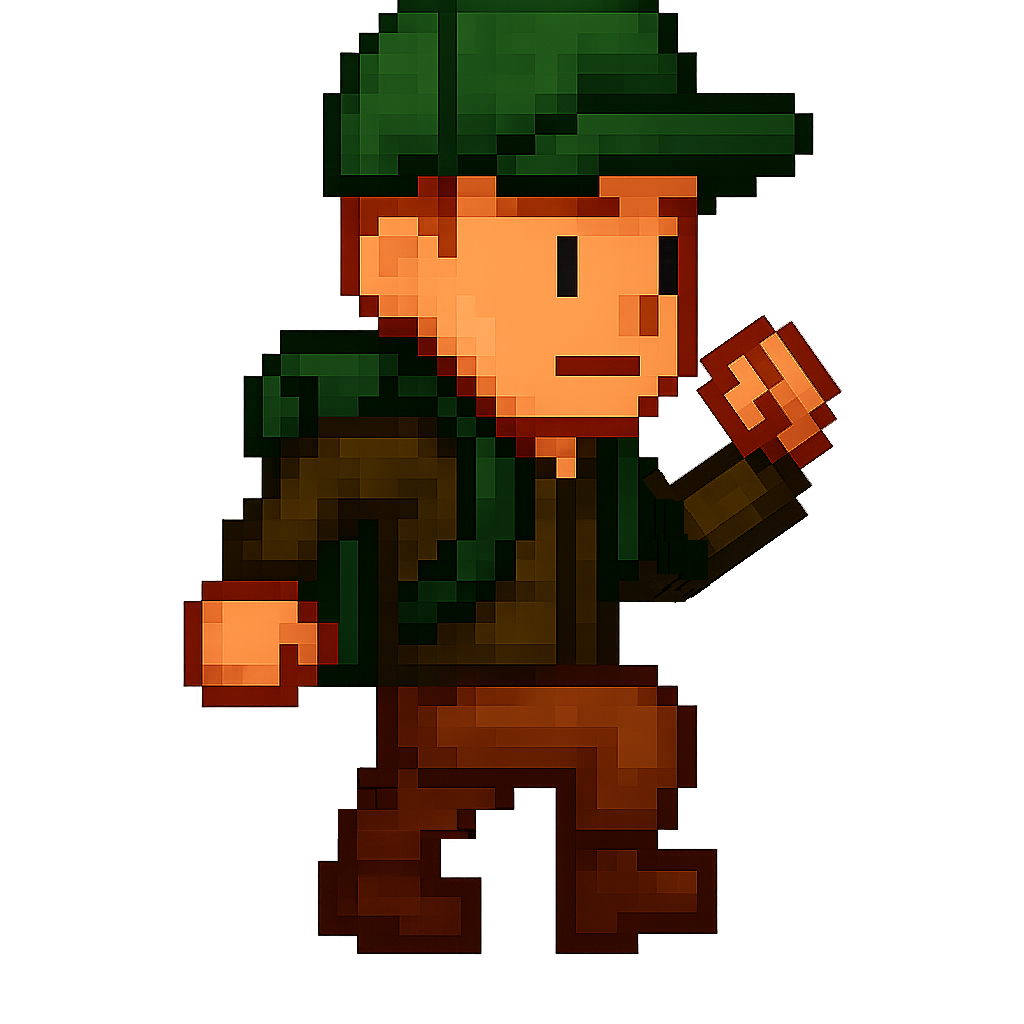
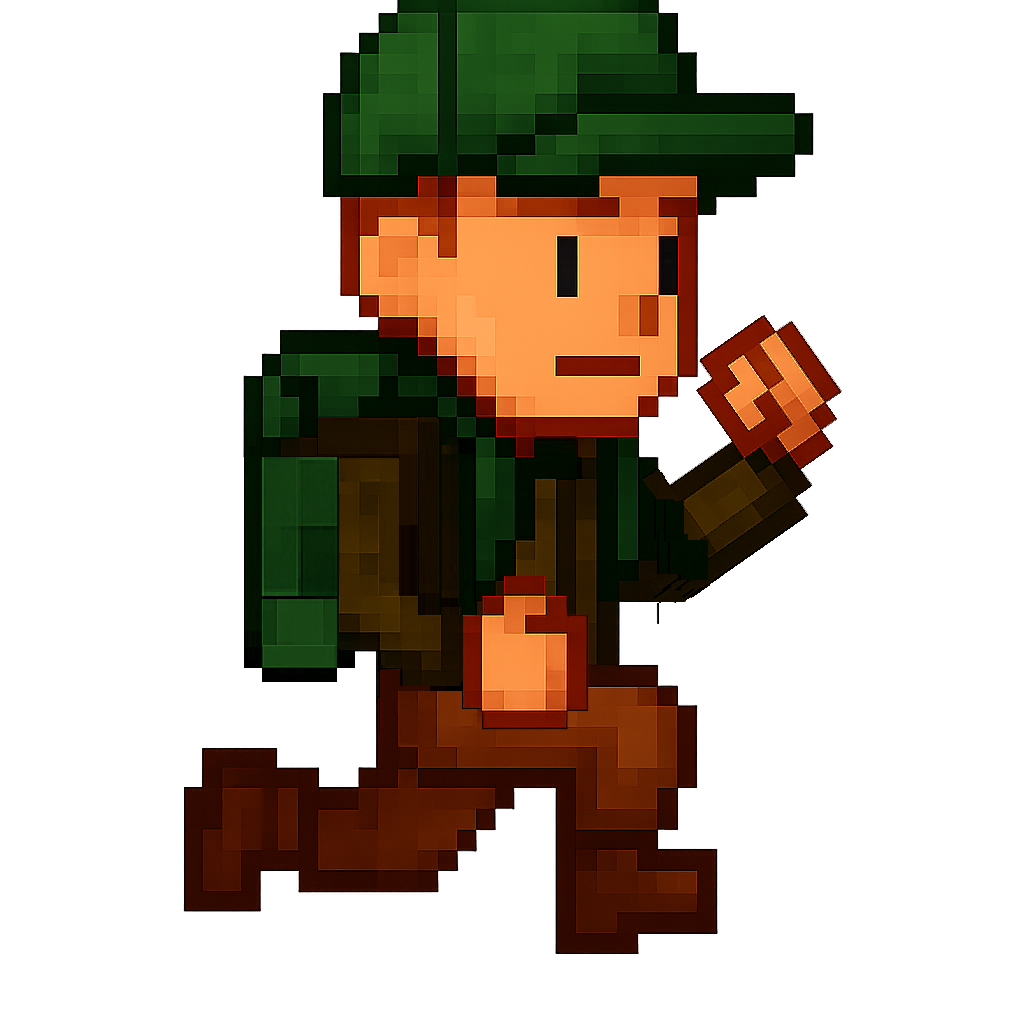
mustard

Changed region(s): [[0.1562, 0.4062, 0.5938, 0.9375], [0.5, 0.4062, 0.5625, 0.4688]]

diff --git a/documents/antonio.py b/documents/antonio.py
@@ -36,7 +36,7 @@ def test_character():
         pygame.init()
         screen = pygame.display.set_mode((640, 480))
         clock = pygame.time.Clock()
-        character = Camper(screen, 200, 200, ["pixil-frame-0.png", "pixil-frame-1.png", "pixil-frame-2.png"])
+        character = Camper(screen, 200, 200, ["pixil-frame-0.png", "pixil-frame-1.png", "pixil-frame-2.png", "pixil-frame-3.png", "pixil-frame-4.png", "pixil-frame-5.png"])
         while True:
             clock.tick(60)
             for event in pygame.event.get():
@@ -45,13 +45,13 @@ def test_character():
             screen.fill("white")
             pressed_keys = pygame.key.get_pressed()
             if pressed_keys[pygame.K_LEFT]:
-                character.move(-5,0,time.time())
+                character.move(-1,0,time.time())
             if pressed_keys[pygame.K_RIGHT]:
-                character.move(5,0,time.time())
+                character.move(1,0,time.time())
             if pressed_keys[pygame.K_UP]:
-                character.move(0,-5,time.time())
+                character.move(0,-1,time.time())
             if pressed_keys[pygame.K_DOWN]:
-                character.move(0,5,time.time())
+                character.move(0,1,time.time())
             character.draw()
             pygame.display.update()
 
